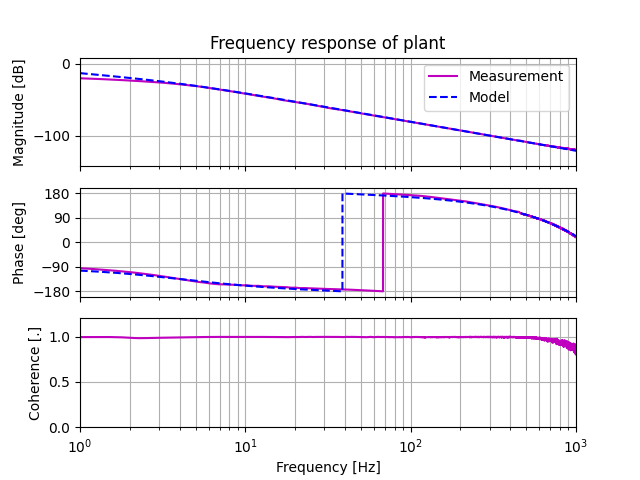
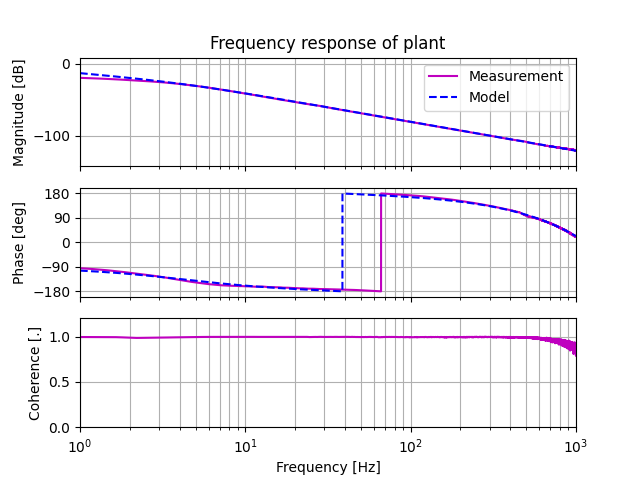
v-0.1.11

diff --git a/example/Run_control_design.py b/example/Run_control_design.py
@@ -31,8 +31,8 @@ z = ctrl.tf([1, 0], [1], Ts)
 print('Common parameters were set.')
 
 # Plant model
-M = 0.022
-C = 1.0
+M = 0.027
+C = 0.7
 K = 0
 Pmechs = ctrl.tf([1.0], [M, C, K])
 Pmechz = ctrl.c2d(Pmechs, Ts, method='zoh')
@@ -54,9 +54,9 @@ print('PD controller was designed.')
 
 # Design PID controller
 freq1 = 30.0
-zeta1 = 1.0
-freq2 = 20.0
-zeta2 = 0.7
+zeta1 = 0.7
+freq2 = 30.0
+zeta2 = 1.0
 Cz_PID = ctrl.pid(freq1, zeta1, freq2, zeta2, M, C, K, Ts)
 Cz_PID_frd = ctrl.sys2frd(Cz_PID, freq)
 print('PID controller was designed.')
@@ -89,8 +89,8 @@ for i in range(len(freqPF)):
 print('Peak filters were designed.')
 
 # Design DOB for FB
-M_dob = 0.022
-C_dob = 0.5
+M_dob = 0.027
+C_dob = 0.7
 K_dob = 0.0
 freq_dob = 100.0
 zeta_dob = 0.7
@@ -114,16 +114,16 @@ lead_frd = ctrl.sys2frd(z**Nzpetc, freq)
 print('ZPETC was designed.')
 
 # Impedance control
-M_imp = 0.022
-C_imp = 1.0
+M_imp = 0.027
+C_imp = 0.7
 K_imp = 0.0
 ImpModel = ctrl.c2d(ctrl.tf([1.0], [M_imp, C_imp, K_imp]), Ts, method='zoh')
 ImpModel_frd = ctrl.sys2frd(ImpModel, freq)
 print('Impedance controller was designed.')
 
 # Haptics control
-freq1 = 600.0
-freq2 = 60.0
+freq1 = 800.0
+freq2 = 100.0
 feta2 = 0.7
 Cz_Hap = ctrl.pd(freq1, freq2, zeta2, M_dob, C_dob, K_dob, Ts)
 Cz_Hap_frd = ctrl.sys2frd(Cz_Hap, freq)

diff --git a/example/Run_sysid_exp.py b/example/Run_sysid_exp.py
@@ -64,10 +64,10 @@ ax1 = fig.add_subplot(411)
 ax2 = fig.add_subplot(412)
 ax3 = fig.add_subplot(413)
 ax4 = fig.add_subplot(414)
-plot.plot_xy(ax1, time, NoiseOut, '-', 'b', 1.5, 1.0, ylabel='[N]', legend=['Sig'], loc='upper right', title='Time response')
-plot.plot_xy(ax2, time, ServoOutN, '-', 'b', 1.5, 1.0, ylabel='[N]', legend=['In'], loc='upper right')
-plot.plot_xy(ax3, time, ActPosUm, '-', 'b', 1.5, 1.0, ylabel='[um]', legend=['Out'], loc='upper right')
-plot.plot_xy(ax4, time, FlagInject, '-', 'b', 1.5, 1.0, xlabel='Time [s]', ylabel='[.]', legend=['Flag'], loc='upper right')
+plot.plot_xy(ax1, time, NoiseOut, '-', 'b', 0.5, 1.0, ylabel='[N]', legend=['Sig'], loc='upper right', title='Time response')
+plot.plot_xy(ax2, time, ServoOutN, '-', 'b', 0.5, 1.0, ylabel='[N]', legend=['In'], loc='upper right')
+plot.plot_xy(ax3, time, ActPosUm, '-', 'b', 0.5, 1.0, ylabel='[um]', legend=['Out'], loc='upper right')
+plot.plot_xy(ax4, time, FlagInject, '-', 'b', 0.5, 1.0, xlabel='Time [s]', ylabel='[.]', legend=['Flag'], loc='upper right')
 plot.savefig(figurefolderName+'/time_resp.png')
 
 # Plant

diff --git a/example/Run_control_design_basic.py b/example/Run_control_design_basic.py
@@ -31,8 +31,8 @@ z = ctrl.tf([1, 0], [1], Ts)
 print('Common parameters were set.')
 
 # Plant model
-M = 0.022
-C = 1.0
+M = 0.027
+C = 0.7
 K = 0
 Pmechs = ctrl.tf([1.0], [M, C, K])
 Pmechz = ctrl.c2d(Pmechs, Ts, method='zoh')
@@ -54,9 +54,9 @@ print('PD controller was designed.')
 
 # Design PID controller
 freq1 = 30.0
-zeta1 = 1.0
-freq2 = 20.0
-zeta2 = 0.7
+zeta1 = 0.7
+freq2 = 30.0
+zeta2 = 1.0
 Cz_PID = ctrl.pid(freq1, zeta1, freq2, zeta2, M, C, K, Ts)
 Cz_PID_frd = ctrl.sys2frd(Cz_PID, freq)
 print('PID controller was designed.')
